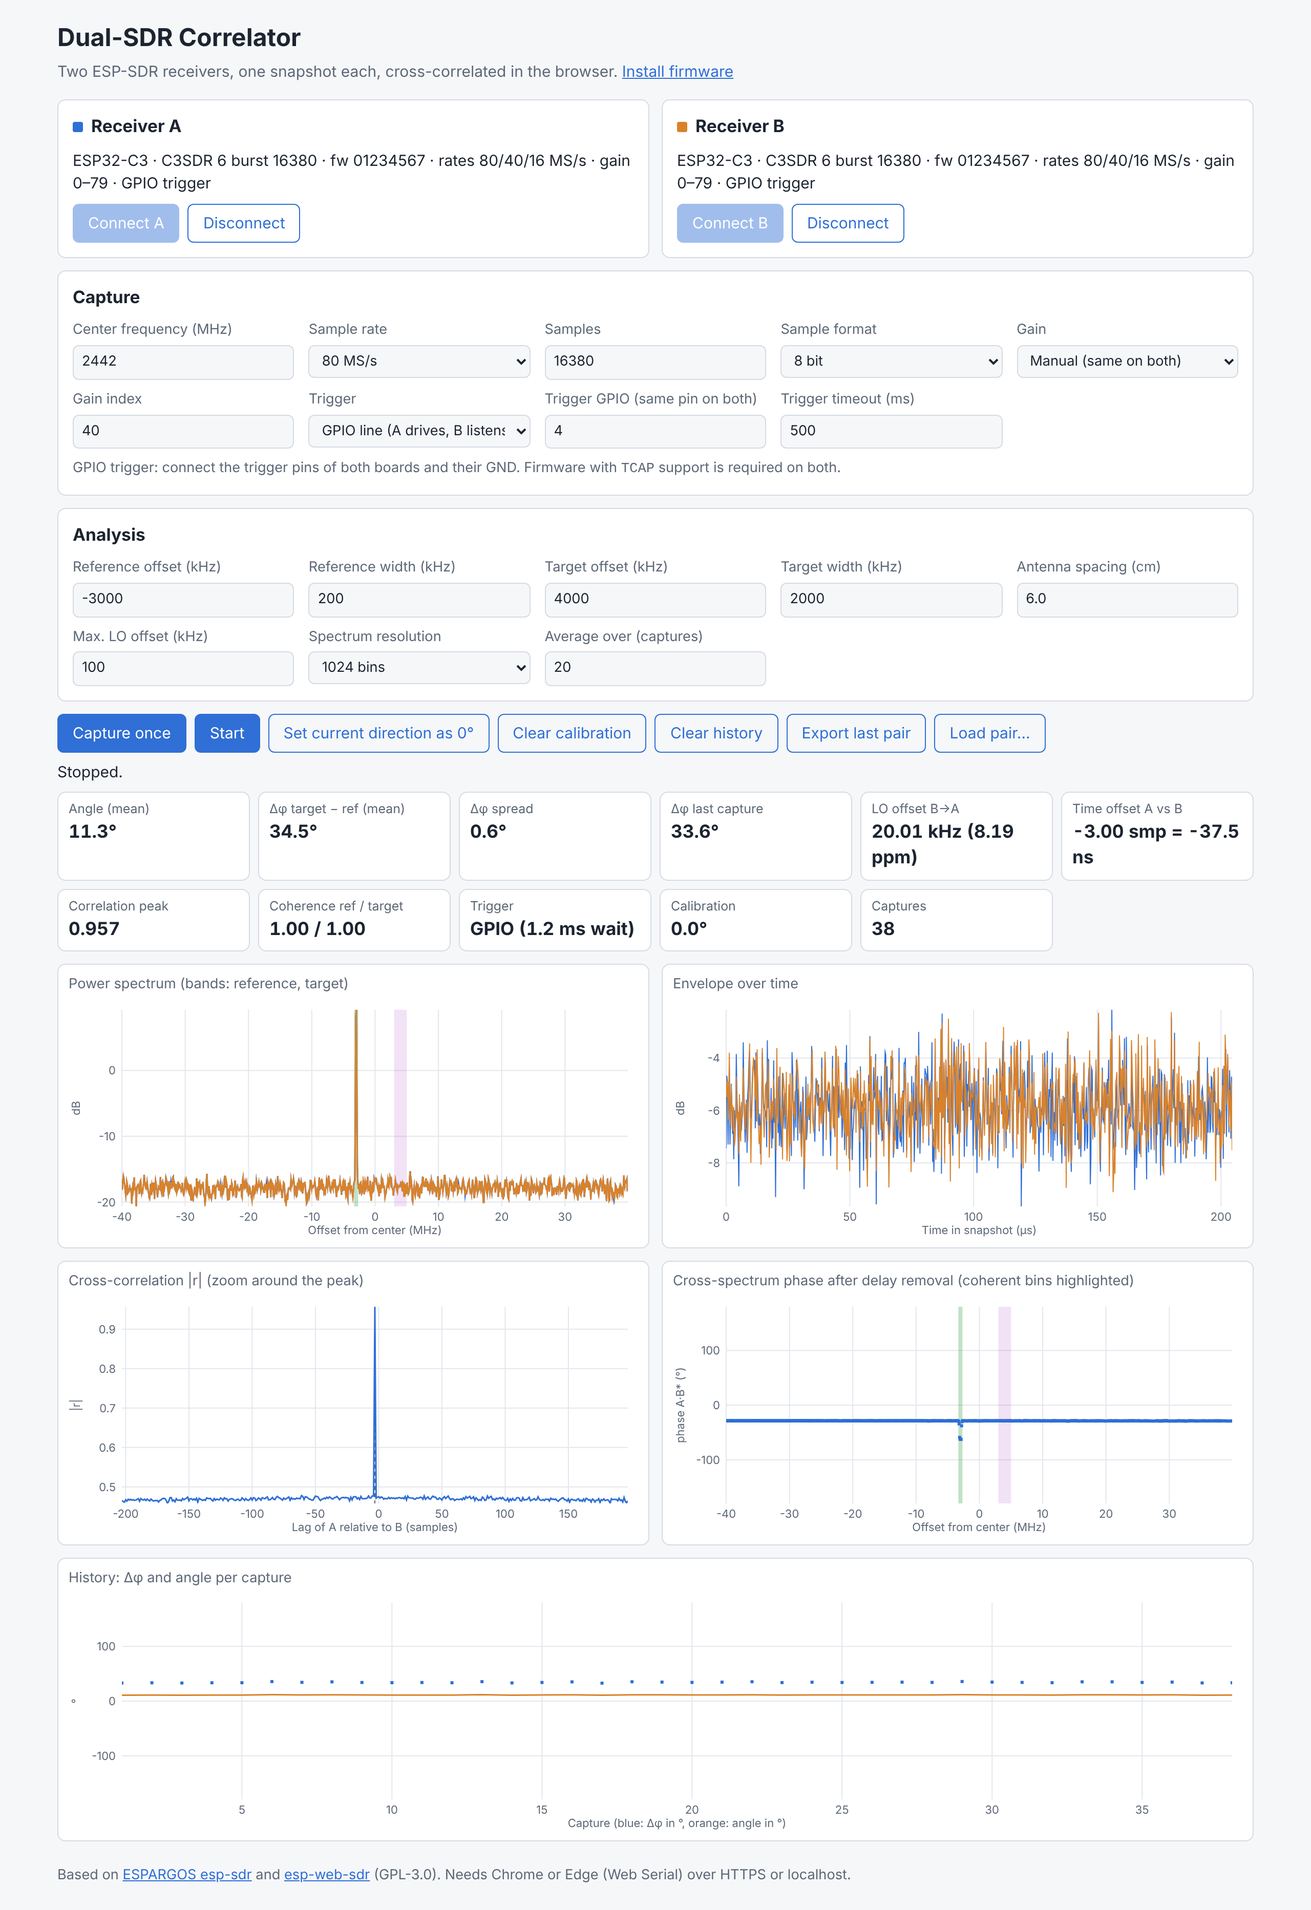
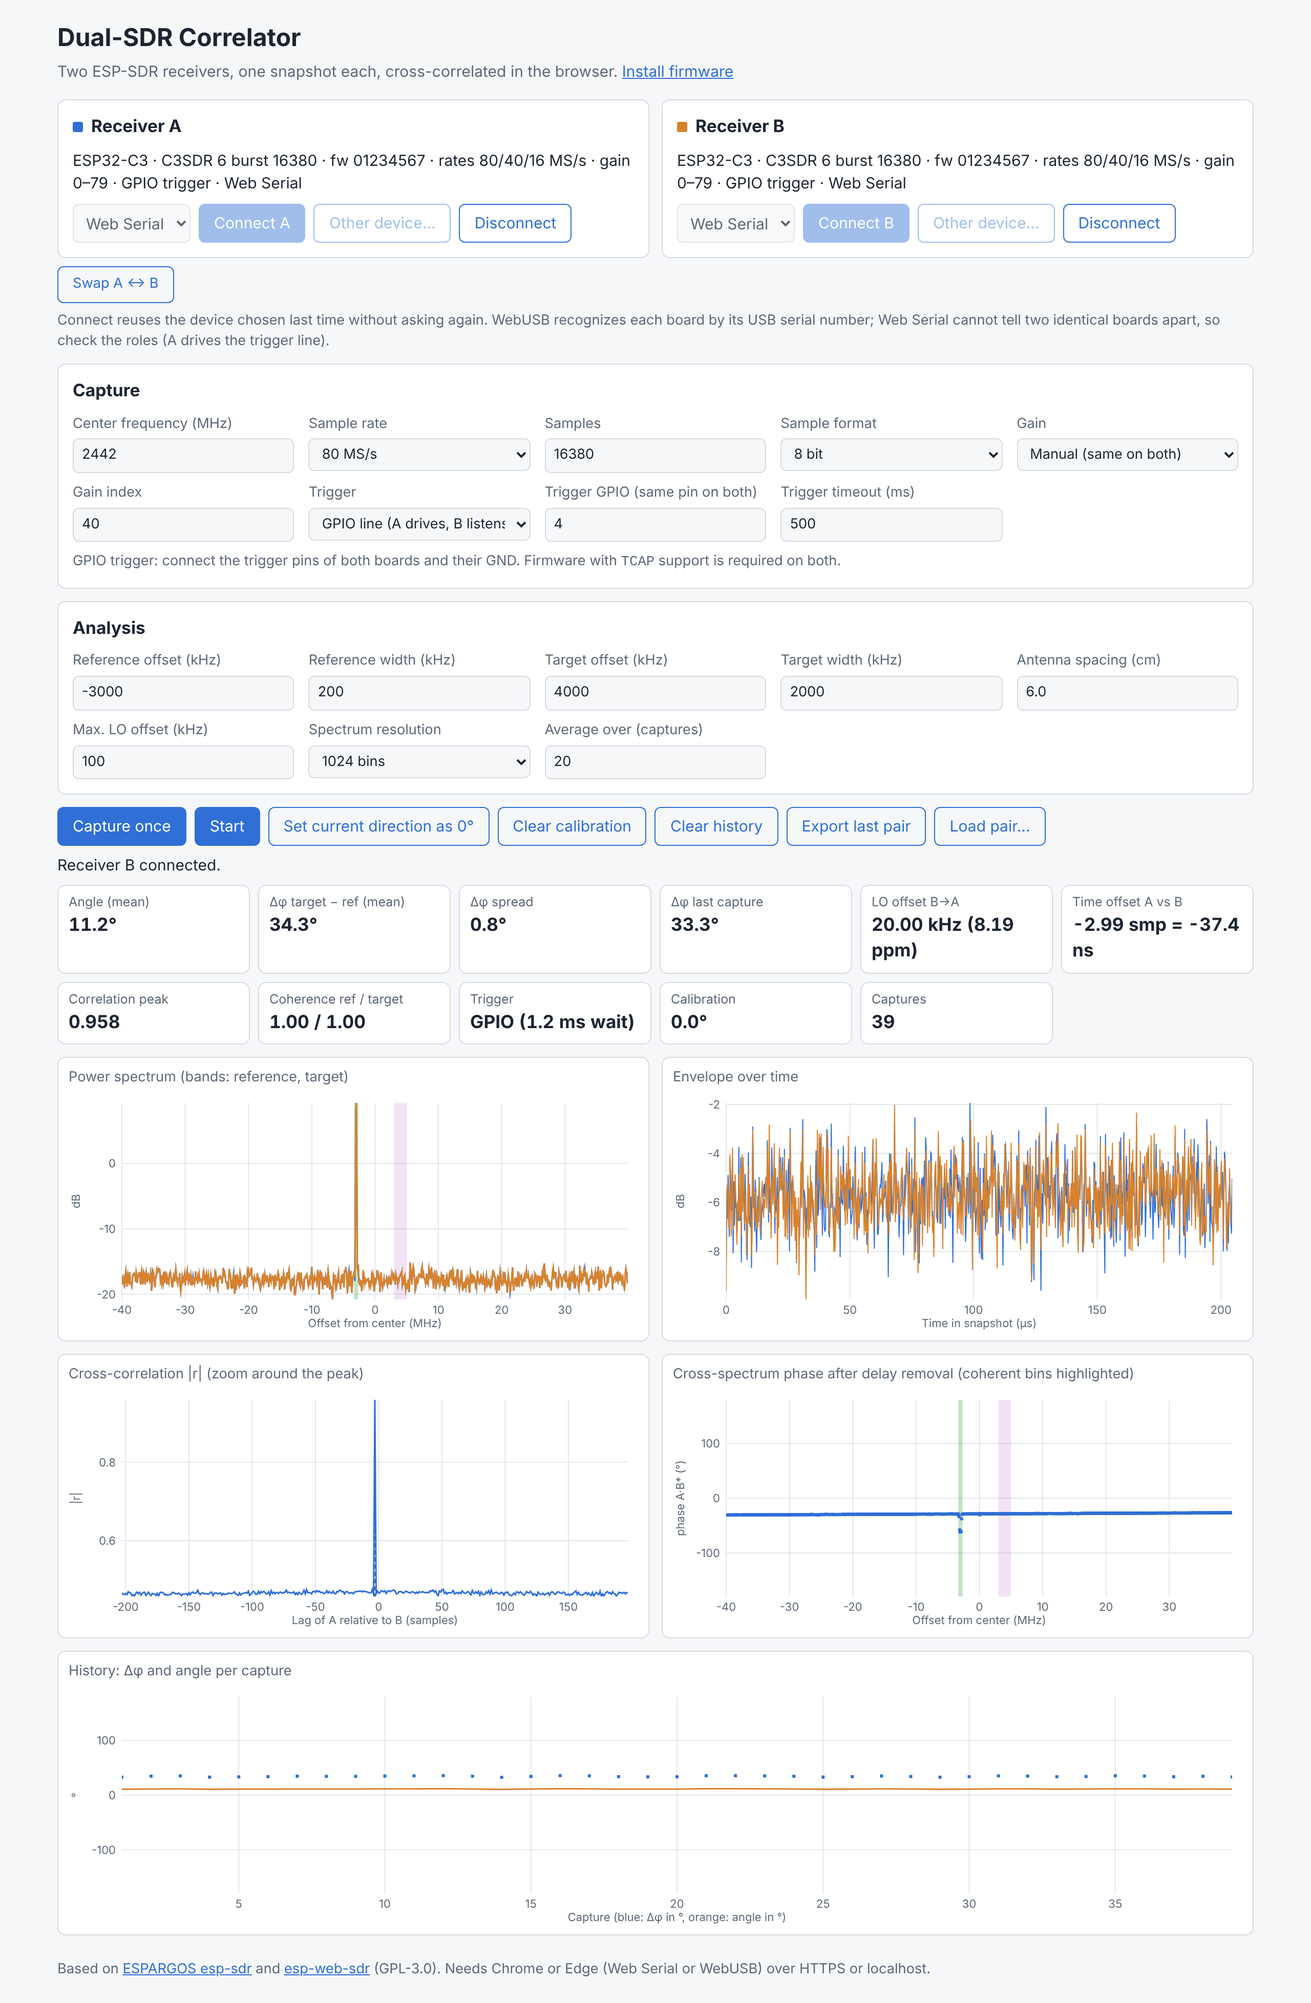
Web app: connect over Web Serial or WebUSB, reconnect without the chooser
- Interface select per receiver (Web Serial / WebUSB via the CDC
  transport already in serial-transport.js).
- Each role remembers its device in localStorage: WebUSB by USB serial
  number, Web Serial by its position among the granted ports. Connect
  reopens it without the browser's chooser; "Other device…" asks again.
- "Swap A ↔ B" exchanges the roles of the connected receivers.
- Emulator also provides navigator.usb; e2e covers reconnecting, swapping
  and reconnecting after a reload. Screenshots regenerated.

Claude-Session: https://claude.ai/code/session_01AT8VYFL97bqSj9vxruKJ3q

diff --git a/webapp/app.js b/webapp/app.js
@@ -31,9 +31,12 @@
     $('run').textContent = running ? 'Stop' : 'Start';
     $('calibrate').disabled = !history.length;
     $('export').disabled = !lastPair;
+    $('swap').disabled = busy || running || !names.some((n) => devices[n].radio.port);
     for (const n of names) {
       const on = !!devices[n].radio.port;
       $('connect-' + n).disabled = on || running;
+      $('choose-' + n).disabled = on || running;
+      $('iface-' + n).disabled = on || running;
       $('disconnect-' + n).disabled = !on || running;
       $('device-' + n).classList.toggle('connected', on);
     }
@@ -107,17 +110,57 @@
     });
   }
 
-  async function connect(n) {
+  // ---------- port selection ----------
+  // Each role remembers its interface and device, so Connect can reopen it
+  // without the browser's chooser. WebUSB devices are identified by their USB
+  // serial number (the C3 USB-Serial-JTAG reports its MAC); Web Serial only
+  // exposes vendor/product IDs, so the position among the granted ports is
+  // remembered instead.
+  const storageKey = (n) => 'dual-sdr.port.' + n;
+  const load = (n) => {
+    try {
+      return JSON.parse(localStorage.getItem(storageKey(n))) || {};
+    } catch {
+      return {};
+    }
+  };
+  const save = (n, value) => {
+    try {
+      localStorage.setItem(storageKey(n), JSON.stringify(value));
+    } catch {}
+  };
+  const portSerial = (port) => (SerialConnection.kind(port) === 'webusb' ? port.device.serialNumber || '' : '');
+
+  async function rememberedPort(n, kind) {
+    const saved = load(n);
+    if (saved.kind !== kind) return null;
+    const ports = await SerialConnection.getPorts(kind),
+      others = names.filter((m) => m !== n).map((m) => devices[m].radio.port);
+    const free = ports.filter((p) => !others.includes(p));
+    if (kind === 'webusb') return saved.serial ? free.find((p) => portSerial(p) === saved.serial) || null : null;
+    const p = ports[saved.index];
+    return p && free.includes(p) ? p : null;
+  }
+
+  async function remember(n, port) {
+    const kind = SerialConnection.kind(port);
+    const ports = kind === 'webserial' ? await SerialConnection.getPorts(kind) : [];
+    save(n, { kind, serial: portSerial(port), index: ports.indexOf(port) });
+  }
+
+  async function connect(n, choose = false) {
     const dev = devices[n];
+    const kind = $('iface-' + n).value;
     try {
       message(`Connecting receiver ${n}…`);
       const other = devices[n === 'A' ? 'B' : 'A'].radio.port;
-      const port = await SerialConnection.requestPort();
+      let port = choose ? null : await rememberedPort(n, kind);
+      if (!port) port = await SerialConnection.requestPort(kind);
       if (other && port === other) throw Error('This port is already used by the other receiver.');
       await dev.radio.connect({ port });
       await probeTrigger(dev.radio);
-      $('status-' + n).textContent =
-        describe(dev) + (dev.radio.hasTriggeredCapture ? ' · GPIO trigger' : ' · no GPIO trigger');
+      await remember(n, port);
+      showStatus(n);
       applyCapabilities();
       message(`Receiver ${n} connected.`);
     } catch (e) {
@@ -127,6 +170,55 @@
     updateButtons();
   }
 
+  function showStatus(n) {
+    const dev = devices[n],
+      port = dev.radio.port;
+    if (!port) {
+      $('status-' + n).textContent = 'Not connected';
+      return;
+    }
+    const serial = portSerial(port),
+      via = SerialConnection.kind(port) === 'webusb' ? 'WebUSB' + (serial ? ' ' + serial : '') : 'Web Serial';
+    $('status-' + n).textContent =
+      `${describe(dev)} · ${dev.radio.hasTriggeredCapture ? 'GPIO trigger' : 'no GPIO trigger'} · ${via}`;
+  }
+
+  function bindErrors() {
+    for (const n of names)
+      devices[n].radio.onCaptureError = () => message(`Receiver ${n}: damaged transfer, retrying…`, true);
+  }
+
+  // Exchange the two receivers (and what they remember) without reconnecting.
+  async function swap() {
+    const a = devices.A.radio,
+      b = devices.B.radio;
+    devices.A.radio = b;
+    devices.B.radio = a;
+    const sa = load('A'),
+      sb = load('B');
+    save('A', sb);
+    save('B', sa);
+    for (const n of names) {
+      if (devices[n].radio.port) await remember(n, devices[n].radio.port);
+      $('iface-' + n).value = load(n).kind || $('iface-' + n).value;
+      showStatus(n);
+    }
+    bindErrors();
+    message('Receivers A and B swapped.');
+    updateButtons();
+  }
+
+  function initInterfaces() {
+    const available = { webserial: !!navigator.serial, webusb: !!navigator.usb };
+    for (const n of names) {
+      const sel = $('iface-' + n);
+      for (const opt of sel.options) opt.disabled = !available[opt.value];
+      const saved = load(n).kind;
+      sel.value = saved && available[saved] ? saved : SerialConnection.defaultKind();
+      sel.addEventListener('change', () => save(n, { ...load(n), kind: sel.value }));
+    }
+  }
+
   async function disconnect(n) {
     const dev = devices[n];
     try {
@@ -134,7 +226,7 @@
     } catch (e) {
       message(e.message || String(e), true);
     }
-    $('status-' + n).textContent = 'Not connected';
+    showStatus(n);
     updateButtons();
   }
 
@@ -623,6 +715,7 @@
   // ---------- wiring ----------
   for (const n of names) {
     $('connect-' + n).addEventListener('click', () => connect(n));
+    $('choose-' + n).addEventListener('click', () => connect(n, true));
     $('disconnect-' + n).addEventListener('click', () => disconnect(n));
   }
   $('capture').addEventListener('click', captureOnce);
@@ -663,11 +756,12 @@
       render();
     });
   window.addEventListener('resize', render);
-  for (const n of names)
-    devices[n].radio.onCaptureError = () => message(`Receiver ${n}: damaged transfer, retrying…`, true);
+  bindErrors();
+  initInterfaces();
+  $('swap').addEventListener('click', swap);
 
-  if (!('serial' in navigator) && !SerialConnection.supported?.())
-    message('This browser has no Web Serial support. Use Chrome or Edge on the desktop.', true);
+  if (!SerialConnection.supported())
+    message('This browser supports neither Web Serial nor WebUSB. Use Chrome or Edge.', true);
   updateButtons();
 
   // For tests and the console.

diff --git a/webapp/tests/e2e/emulator.js b/webapp/tests/e2e/emulator.js
@@ -1,9 +1,10 @@
-// Fake navigator.serial with two emulated ESP-SDR C3 receivers (TCAP-capable).
+// Fake navigator.serial and navigator.usb with two emulated ESP-SDR C3 receivers
+// (TCAP-capable).
 // Test-only stand-in for the firmware protocol; injected by e2e.cjs.
 (() => {
   const CRC = Uint32Array.from({ length: 256 }, (_, i) => { let c = i; for (let k = 0; k < 8; k++) c = c & 1 ? 0xedb88320 ^ (c >>> 1) : c >>> 1; return c >>> 0; });
   const crc32 = (b) => { let c = 0xffffffff; for (const x of b) c = CRC[(c ^ x) & 255] ^ (c >>> 8); return (c ^ 0xffffffff) >>> 0; };
-  const shared = { wireConnected: true, pendingSlave: null, log: [], captures: 0 };
+  const shared = { wireConnected: true, pendingSlave: null, log: [], captures: 0, requests: 0 };
   window.__emu = shared;
   function makeSource(n) {
     // white noise source plus a tone; B sees it 3 samples later, rotated by 0.5 rad, with 20 kHz LO offset
@@ -36,8 +37,19 @@
     return b;
   }
   class Device {
-    constructor(name) { this.name = name; this.buf = ''; this.out = []; this.wake = null; }
-    send(x) { this.out.push(typeof x === 'string' ? new TextEncoder().encode(x) : x); this.wake?.(); }
+    constructor(name) { this.name = name; this.buf = ''; this.out = []; this.waiters = []; }
+    send(x) { this.out.push(typeof x === 'string' ? new TextEncoder().encode(x) : x); this.wakeAll(); }
+    wakeAll() { for (const r of this.waiters.splice(0)) r(); }
+    async next() { while (!this.out.length) await new Promise((r) => this.waiters.push(r)); }
+    receive(chunk) {
+      this.buf += new TextDecoder().decode(chunk);
+      let i;
+      while ((i = this.buf.indexOf('\n')) >= 0) {
+        const line = this.buf.slice(0, i).trim();
+        this.buf = this.buf.slice(i + 1);
+        if (line) this.handle(line);
+      }
+    }
     handle(line) {
       shared.log.push(this.name + ': ' + line);
       let m;
@@ -78,33 +90,66 @@
     }
   }
   function makePort(dev) {
-    let reader;
     return {
       getInfo: () => ({ usbVendorId: 0x303a, usbProductId: 0x1001 }),
       async open() {
         this.readable = new ReadableStream({
           pull: async (ctrl) => {
-            while (!dev.out.length) await new Promise((r) => (dev.wake = r));
+            await dev.next();
             ctrl.enqueue(dev.out.shift());
           },
         });
-        this.writable = new WritableStream({
-          write: (chunk) => {
-            dev.buf += new TextDecoder().decode(chunk);
-            let i;
-            while ((i = dev.buf.indexOf('\n')) >= 0) {
-              const line = dev.buf.slice(0, i).trim();
-              dev.buf = dev.buf.slice(i + 1);
-              if (line) dev.handle(line);
-            }
-          },
-        });
+        this.writable = new WritableStream({ write: (chunk) => dev.receive(chunk) });
       },
       async close() {},
       async setSignals() {},
     };
   }
-  const ports = [makePort(new Device('A')), makePort(new Device('B'))];
-  let next = 0;
-  Object.defineProperty(navigator, 'serial', { value: { requestPort: async () => ports[next++], getPorts: async () => [] } });
+  // USBDevice with the C3 USB-Serial-JTAG layout: CDC control (0) + data (1),
+  // plus the vendor-specific JTAG interface (2).
+  function makeUsbDevice(dev) {
+    const ep = (n, direction) => ({ endpointNumber: n, direction, type: 'bulk', packetSize: 64 });
+    const alt = (cls, sub, endpoints = []) => ({ alternateSetting: 0, interfaceClass: cls, interfaceSubclass: sub, endpoints });
+    const iface = (n, a) => ({ interfaceNumber: n, alternate: a, alternates: [a] });
+    const cfg = { configurationValue: 1, interfaces: [iface(0, alt(2, 2)), iface(1, alt(10, 0, [ep(2, 'in'), ep(2, 'out')])), iface(2, alt(255, 255))] };
+    let closed = true;
+    return {
+      vendorId: 0x303a, productId: 0x1001, serialNumber: 'EMU:' + dev.name,
+      configuration: null, configurations: [cfg],
+      async open() { closed = false; },
+      async selectConfiguration() { this.configuration = cfg; },
+      async claimInterface() {},
+      async selectAlternateInterface() {},
+      async controlTransferOut() { return { status: 'ok' }; },
+      async transferIn(_, size) {
+        while (!closed && !dev.out.length) await new Promise((r) => dev.waiters.push(r));
+        if (closed) throw new DOMException('The device was closed.', 'AbortError');
+        const head = dev.out[0], part = head.subarray(0, size);
+        if (part.length === head.length) dev.out.shift(); else dev.out[0] = head.subarray(size);
+        return { status: 'ok', data: new DataView(part.buffer, part.byteOffset, part.byteLength) };
+      },
+      async transferOut(_, bytes) { dev.receive(bytes); return { status: 'ok', bytesWritten: bytes.byteLength }; },
+      async close() {
+        closed = true;
+        dev.wakeAll(); // fail the pending reads like a real USBDevice.close() does
+      },
+    };
+  }
+  const devs = [new Device('A'), new Device('B')];
+  const ports = devs.map(makePort), usb = devs.map(makeUsbDevice);
+  const granted = { serial: [], usb: [] };
+  const grant = (list, all) => async () => {
+    shared.requests++;
+    const next = all.find((x) => !list.includes(x));
+    if (!next) throw new DOMException('No port selected by the user.', 'NotFoundError');
+    list.push(next);
+    return next;
+  };
+  Object.defineProperty(navigator, 'serial', { value: { requestPort: grant(granted.serial, ports), getPorts: async () => [...granted.serial] } });
+  Object.defineProperty(navigator, 'usb', { value: { requestDevice: grant(granted.usb, usb), getDevices: async () => [...granted.usb] } });
+  // Permissions survive a reload in a real browser.
+  shared.restore = (serial, usbNames) => {
+    granted.serial.push(...serial.map((i) => ports[i]));
+    granted.usb.push(...usbNames.map((i) => usb[i]));
+  };
 })();

diff --git a/webapp/index.html b/webapp/index.html
@@ -25,7 +25,12 @@
           <h2><span class="swatch a"></span>Receiver A</h2>
           <p class="device-status" id="status-A">Not connected</p>
           <div class="row">
+            <select id="iface-A" aria-label="Interface of receiver A">
+              <option value="webserial">Web Serial</option>
+              <option value="webusb">WebUSB</option>
+            </select>
             <button id="connect-A">Connect A</button>
+            <button id="choose-A" class="secondary" title="Ask the browser for another device">Other device…</button>
             <button id="disconnect-A" class="secondary" disabled>Disconnect</button>
           </div>
         </article>
@@ -33,11 +38,22 @@
           <h2><span class="swatch b"></span>Receiver B</h2>
           <p class="device-status" id="status-B">Not connected</p>
           <div class="row">
+            <select id="iface-B" aria-label="Interface of receiver B">
+              <option value="webserial">Web Serial</option>
+              <option value="webusb">WebUSB</option>
+            </select>
             <button id="connect-B">Connect B</button>
+            <button id="choose-B" class="secondary" title="Ask the browser for another device">Other device…</button>
             <button id="disconnect-B" class="secondary" disabled>Disconnect</button>
           </div>
         </article>
       </section>
+      <p class="hint devices-hint">
+        <button id="swap" class="secondary" title="Exchange the roles of the two connected receivers">Swap A ↔ B</button>
+        Connect reuses the device chosen last time without asking again. WebUSB recognizes each board by its USB
+        serial number; Web Serial cannot tell two identical boards apart, so check the roles (A drives the trigger
+        line).
+      </p>
 
       <section class="panel" aria-labelledby="capture-heading">
         <h2 id="capture-heading">Capture</h2>
@@ -160,7 +176,7 @@
       Based on <a href="https://github.com/ESPARGOS/esp-sdr" target="_blank" rel="noopener noreferrer">ESPARGOS esp-sdr</a>
       and
       <a href="https://github.com/ESPARGOS/esp-web-sdr" target="_blank" rel="noopener noreferrer">esp-web-sdr</a>
-      (GPL-3.0). Needs Chrome or Edge (Web Serial) over HTTPS or localhost.
+      (GPL-3.0). Needs Chrome or Edge (Web Serial or WebUSB) over HTTPS or localhost.
     </footer>
   </body>
 </html>

diff --git a/webapp/style.css b/webapp/style.css
@@ -254,3 +254,10 @@ canvas {
   width: 100%;
   height: 230px;
 }
+.devices-hint {
+  display: flex;
+  flex-wrap: wrap;
+  align-items: center;
+  gap: 8px 12px;
+  margin: -4px 0 12px;
+}

diff --git a/webapp/README.md b/webapp/README.md
@@ -17,14 +17,14 @@ ESP32-C3 firmware in `firmware/`.
 
 <picture>
   <source media="(prefers-color-scheme: dark)" srcset="../docs/webapp-correlator-dark.png">
-  <img src="../docs/webapp-correlator-light.png" alt="Dual-SDR Correlator after 38 GPIO-triggered captures: metrics, power spectrum with reference and target bands, envelope, cross-correlation, cross-spectrum phase and phase history">
+  <img src="../docs/webapp-correlator-light.png" alt="Dual-SDR Correlator after about 30 GPIO-triggered captures: metrics, power spectrum with reference and target bands, envelope, cross-correlation, cross-spectrum phase and phase history">
 </picture>
 
 *The screenshot shows two **emulated** receivers (a browser-side stand-in for
 the firmware protocol, not real hardware): wideband noise plus a CW reference
 at −3 MHz, receiver B with a 20 kHz LO offset, a 3-sample time offset and an
-extra 0.6 rad (34.4°) on the reference. The app recovers 20.00 kHz,
-−3.00 samples and Δφ = 34.3° with 0.8° spread over 38 captures.*
+extra 0.6 rad (34.4°) on the reference. The app recovers the 20 kHz,
+the −3 samples and Δφ ≈ 34.4° with a spread below 1° over about 30 captures.*
 
 How to read the plots:
 
@@ -38,8 +38,25 @@ How to read the plots:
 
 ## Hosting
 
-The app is static: serve this folder with any web server. Web Serial requires
-**HTTPS or localhost** and Chrome/Edge (or Firefox 151+) on the desktop.
+The app is static: serve this folder with any web server. Web Serial and
+WebUSB require **HTTPS or localhost** and Chrome/Edge (or Firefox 151+).
+
+## Connecting
+
+Each receiver card chooses its interface:
+
+- **Web Serial** (default on the desktop): works on every OS.
+- **WebUSB (native USB)**: talks CDC directly to the C3's USB-Serial-JTAG. It
+  needs the CDC interface to be free of an OS driver; on desktop Linux the
+  `cdc_acm` driver normally owns it, so use Web Serial there.
+
+The browser asks only once per device. **Connect** reopens the device chosen
+last time for that role; **Other device…** opens the chooser. WebUSB identifies
+each board by its USB serial number (the C3 reports its MAC), so A and B keep
+their roles even after a reload. Web Serial does not expose serial numbers, so
+the app remembers the position in the list of granted ports instead; check the
+roles after replugging. **Swap A ↔ B** exchanges the roles of the connected
+receivers (A drives the trigger line).
 
 ```bash
 cd webapp && python3 -m http.server 8000

diff --git a/CLAUDE.md b/CLAUDE.md
@@ -76,6 +76,11 @@ Takt-Spurs, für Sync und Referenz ungeeignet (nicht ins Referenzband legen).
 - `index.html`/`app.js`/`style.css`: Zwei-Empfänger-UI (Web Serial). GPIO-Modus:
   B (Slave) scharf schalten, auf `ARMED` warten, dann A (Master). Software-Modus
   (zwei CAP-Befehle, ~1 ms Jitter > 205-µs-Snapshot) nur als Fallback.
+- Verbindung pro Empfänger wahlweise Web Serial oder WebUSB (CDC über
+  `NativeUSBPort` aus `serial-transport.js`). Rolle → Gerät in `localStorage`
+  (`dual-sdr.port.A/B`: WebUSB per USB-Seriennummer, Web Serial per Index in
+  `getPorts()`), „Connect“ ohne Browser-Dialog, „Other device…“ mit Dialog,
+  „Swap A ↔ B“ tauscht Rollen. Emulator kennt auch `navigator.usb`.
 - `radio.js`, `serial-transport.js`: unverändert aus ESPARGOS/esp-web-sdr `6995ed7`.
   `flash.html` + `flasher/`: Web-Flasher (esptool-js), lädt `firmware/manifest.json`.
 - `dsp.js` (Browser + Node), Pipeline in `analyze()`:
